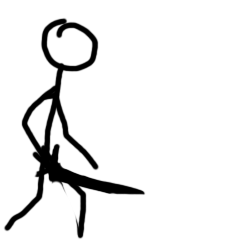
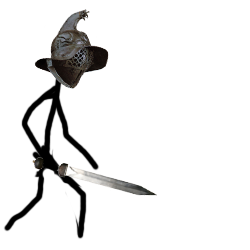
Añadidas imagenes y acciones asignadas a ellas

Changed region(s): [[0.14, 0.028, 0.448, 0.364], [0.112, 0.56, 0.644, 0.784]]

diff --git a/js/gladiador.js b/js/gladiador.js
@@ -1,7 +1,7 @@
 
 class Gladiador{
 
-    constructor(clase, vida, arma, escudo, armadura, img, {posicion, velocidad,sprites},linkImg) {
+    constructor(clase, vida, arma, escudo, armadura, img, {posicion, velocidad, sprites},linkImg) {
 
         this.clase = clase;
         this.vida = vida;
@@ -11,6 +11,7 @@ class Gladiador{
         this.img = img;
         this.posicion = posicion;
         this.velocidad = velocidad;
+        this.dirX = 1;
         this.altura = 250;
         this.ancho = 125;
         this.hitbox = {
@@ -34,7 +35,11 @@ class Gladiador{
         lienzo.fillRect(this.posicion.x, this.posicion.y, this.ancho, this.altura);
         lienzo.strokeStyle = "green";
         lienzo.strokeRect(this.posicion.x, this.posicion.y, this.ancho, this.altura); */
+
+
         lienzo.drawImage(this.image, this.posicion.x, this.posicion.y);
+
+
 /*         if (player1.ataca == true) {
             lienzo.fillStyle = "brown";
             lienzo.fillRect(player1.hitbox.posicion.x + 50, player1.hitbox.posicion.y + 50, player1.hitbox.ancho, player1.hitbox.alto);
@@ -68,6 +73,7 @@ class Gladiador{
         setTimeout(() => {
             this.ataca = false;
         }, 200)
+        
     }
 }
 
@@ -115,9 +121,9 @@ let armadura3 = {
 }
 
 let gladiador1 = new Gladiador("Murmillo", 1200, arma1, escudo1, armadura1, "img/gladius.png", {posicion:{x: 500,y: 200},velocidad:{x: 0,y: 0},sprites:{idle:{linkImg:"img/murmilloIdle.png"},ataque:{linkImg:"img/murmilloAtaque.png"},andar:{linkImg:"img/murmilloAndar.png"},salto:{linkImg:"img/murmilloSalto.png"}}},"img/murmilloIdle.png");
-let gladiador2 = new Gladiador("Retiarius", 1200, arma2, "No", armadura2, "img/tridente.png", {posicion: {x: 750,y: 200},velocidad: {x: 0,y: 0},sprites:{idle:{linkImg:"img/murmilloIdle.png"},ataque:{linkImg:"img/murmilloAtaque.png"},andar:{linkImg:"img/murmilloAndar.png"},salto:{linkImg:"img/murmilloSalto.png"}}},"img/murmilloIdle.png");
-let gladiador3 = new Gladiador("Hoplomachus", 1200, arma3, escudo2, armadura2, "img/lanza.png", {posicion:{x: 500,y: 200},velocidad:{x: 0,y: 0},sprites:{idle:{linkImg:"img/murmilloIdle.png"},ataque:{linkImg:"img/murmilloAtaque.png"},andar:{linkImg:"img/murmilloAndar.png"},salto:{linkImg:"img/murmilloSalto.png"}}},"img/murmilloIdle.png");
-let gladiador4 = new Gladiador("Dimachaerus", 1200, arma4, "No", armadura3, "img/duales.png", {posicion: {x: 750,y: 200},velocidad: {x: 0,y: 0},sprites:{idle:{linkImg:"img/murmilloIdle.png"},ataque:{linkImg:"img/murmilloAtaque.png"},andar:{linkImg:"img/murmilloAndar.png"},salto:{linkImg:"img/murmilloSalto.png"}}},"img/murmilloIdle.png");
+let gladiador2 = new Gladiador("Retiarius", 1200, arma2, "No", armadura2, "img/tridente.png", {posicion: {x: 750,y: 200},velocidad: {x: 0,y: 0},sprites:{idle:{linkImg:"img/retiariusIdle.png"},ataque:{linkImg:"img/retiariusAtaque.png"},andar:{linkImg:"img/retiariusAndar.png"},salto:{linkImg:"img/retiariusSalto.png"}}},"img/retiariusIdle.png");
+let gladiador3 = new Gladiador("Hoplomachus", 1200, arma3, escudo2, armadura2, "img/lanza.png", {posicion:{x: 500,y: 200},velocidad:{x: 0,y: 0},sprites:{idle:{linkImg:"img/hoplomachusIdle.png"},ataque:{linkImg:"img/hoplomachusAtaque.png"},andar:{linkImg:"img/hoplomachusAndar.png"},salto:{linkImg:"img/hoplomachusSalto.png"}}},"img/hoplomachusIdle.png");
+let gladiador4 = new Gladiador("Dimachaerus", 1200, arma4, "No", armadura3, "img/duales.png", {posicion: {x: 750,y: 200},velocidad: {x: 0,y: 0},sprites:{idle:{linkImg:"img/dimachaerusIdle.png"},ataque:{linkImg:"img/dimachaerusAtaque.png"},andar:{linkImg:"img/dimachaerusAndar.png"},salto:{linkImg:"img/dimachaerusSalto.png"}}},"img/dimachaerusIdle.png");
 
 console.log(gladiador1);
 console.log(gladiador2);

diff --git a/js/lienzo.js b/js/lienzo.js
@@ -58,18 +58,13 @@ const fps = () => {
         setInterval(() => {
             fondo.refresco();
             /* matriz(); */
-            /* murmilloImg.render(); */
             if (player1.posicion.y + player1.altura >= 600) {
                 player1.posicion.y = 600 - player1.altura;
             }
             if (player2.posicion.y + player2.altura >= 600) {
                 player2.posicion.y = 600 - player2.altura;
             }
-            if (player1.ataca == true) {
-                player1.image = player1.sprites.ataque.image
-            }else if(player1.ataca == false){
-                player1.image = player1.sprites.idle.image
-            }
+
             if (player1.hitbox.posicion.x + player1.hitbox.ancho + 50 >= player2.posicion.x &&
                 player1.hitbox.posicion.x + 50 <= player2.posicion.x + player2.ancho &&
                 player1.hitbox.posicion.y + player1.hitbox.ancho >= player2.posicion.y &&
@@ -78,7 +73,6 @@ const fps = () => {
             ) {
                 ataque1();
                 player1.ataca = false;
-                console.log("hola");
             }
 
             if (player2.hitbox.posicion.x + player2.hitbox.ancho + 50 >= player1.posicion.x &&
@@ -103,30 +97,44 @@ window.addEventListener("keydown", (event) => {
     switch (event.key) {
         case 'd':
             player1.velocidad.x = 8;
+            player1.image = player1.sprites.andar.image;
             break
         case 'a':
             player1.velocidad.x = -8;
+            player1.image = player1.sprites.andar.image;
             break
         case 'w':
             if (player1.posicion.y + player1.altura >= 600) {
                 player1.velocidad.y = -12;
+                player1.image = player1.sprites.salto.image;
             }
             break
         case ' ':
+            player1.image = player1.sprites.ataque.image;
+            setTimeout(() => {
+                player1.image = player1.sprites.idle.image;
+            }, 200)
             player1.ataque()
             break
         case '6':
             player2.velocidad.x = 8;
+            player2.image = player2.sprites.andar.image;
             break
         case '4':
             player2.velocidad.x = -8;
+            player2.image = player2.sprites.andar.image;
             break
         case '8':
             if (player2.posicion.y + player2.altura >= 600) {
                 player2.velocidad.y = -12;
+                player2.image = player2.sprites.salto.image;
             }
             break
         case '0':
+            player2.image = player2.sprites.ataque.image;
+            setTimeout(() => {
+                player2.image = player2.sprites.idle.image;
+            }, 200)
             player2.ataque()
             break
         default:
@@ -138,15 +146,19 @@ window.addEventListener("keyup", (event) => {
     switch (event.key) {
         case 'd':
             player1.velocidad.x = 0;
+            player1.image = player1.sprites.idle.image
             break
         case 'a':
             player1.velocidad.x = 0;
+            player1.image = player1.sprites.idle.image
             break
         case '6':
             player2.velocidad.x = 0;
+            player2.image = player2.sprites.idle.image
             break
         case '4':
             player2.velocidad.x = 0;
+            player2.image = player2.sprites.idle.image
             break
         default:
             break;

diff --git a/js/main.js b/js/main.js
@@ -12,9 +12,9 @@ const screenSwitch = (pantallaDestino) => {
         };
     };
 
-if (pantallaDestino == "pantalla4") {
-    fps();
-}
+    if (pantallaDestino == "pantalla4") {
+        fps();
+    }
 };
 
 let player1vs = document.getElementById("player1vs");
@@ -56,7 +56,7 @@ const selecciona = (seleccionado) => {
             console.log("Ya están todos seleccionados....");
             break;
     }
-    
+
     turnoSeleccion++;
 
     if (turnoSeleccion == 3) {
@@ -71,6 +71,10 @@ const selecciona = (seleccionado) => {
         player2Combate.src = player2.img;
         vidatotal1 = player2.vida;
         vidatotal2 = player1.vida;
+        player1.posicion.x = 300;
+        player1.posicion.y = 200;
+        player2.posicion.x = 1100;
+        player2.posicion.y = 200;
 
         console.log(player1.clase, player1.arma.dmg, player1.vida);
         console.log(player2.clase, player2.arma.dmg, player2.vida);
@@ -80,6 +84,7 @@ const selecciona = (seleccionado) => {
         }, 1000);
         turnoSeleccion = 1;
     }
+
     vida1.style.width = "35em";
     vida2.style.width = "35em";
     vida1.style.backgroundColor = "green";
